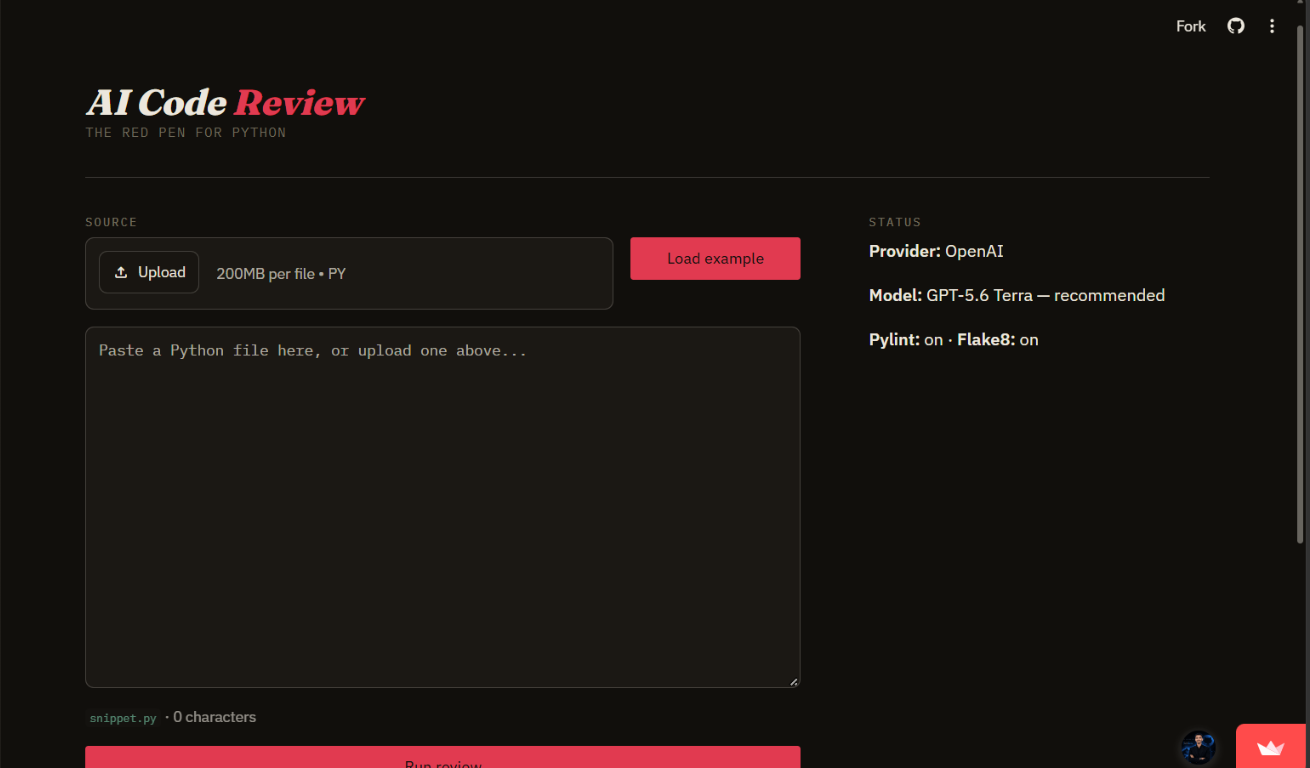
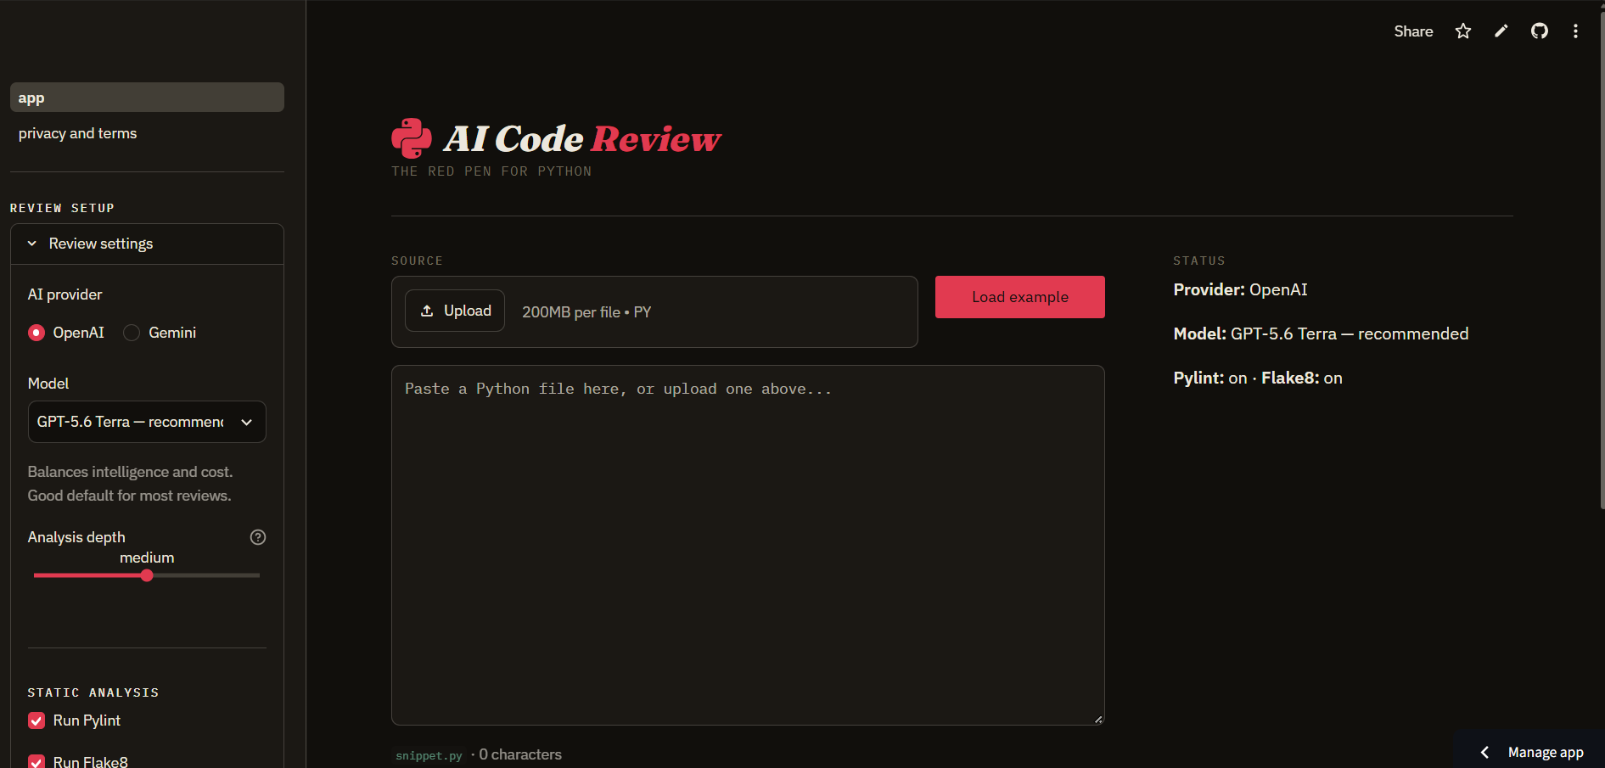
Refresh README branding and screenshots

diff --git a/README.md b/README.md
@@ -1,4 +1,6 @@
-# AI Code Review Assistant
+<p align="center">
+  <img src="docs/images/brand-banner.png" alt="AI Code Review — The Red Pen for Python" width="620">
+</p>
 
 An AI-assisted Python code reviewer that combines **Pylint** and **Flake8** findings with a structured review from **OpenAI** or **Google Gemini**. Paste or upload a Python file to find bugs, security and performance concerns, and maintainability issues in one place.
 
@@ -9,7 +11,7 @@ An AI-assisted Python code reviewer that combines **Pylint** and **Flake8** find
 
 ## App preview
 
-![AI Code Review Assistant application screenshot](docs/images/app-screenshot.png)
+![AI Code Review Assistant app showing the Python logo, review settings, code editor, and provider status](docs/images/app-screenshot.png)
 
 ## Features
 
